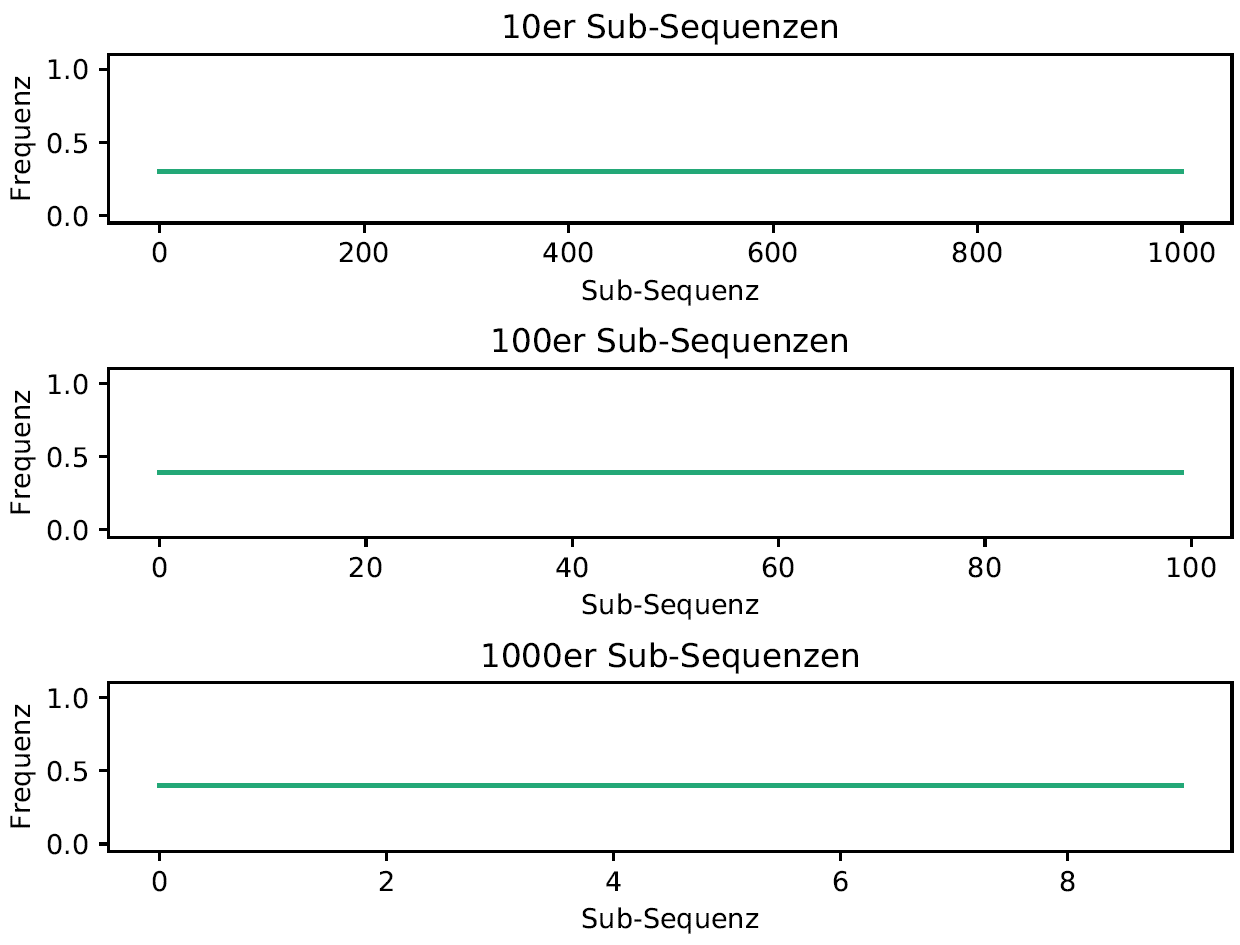
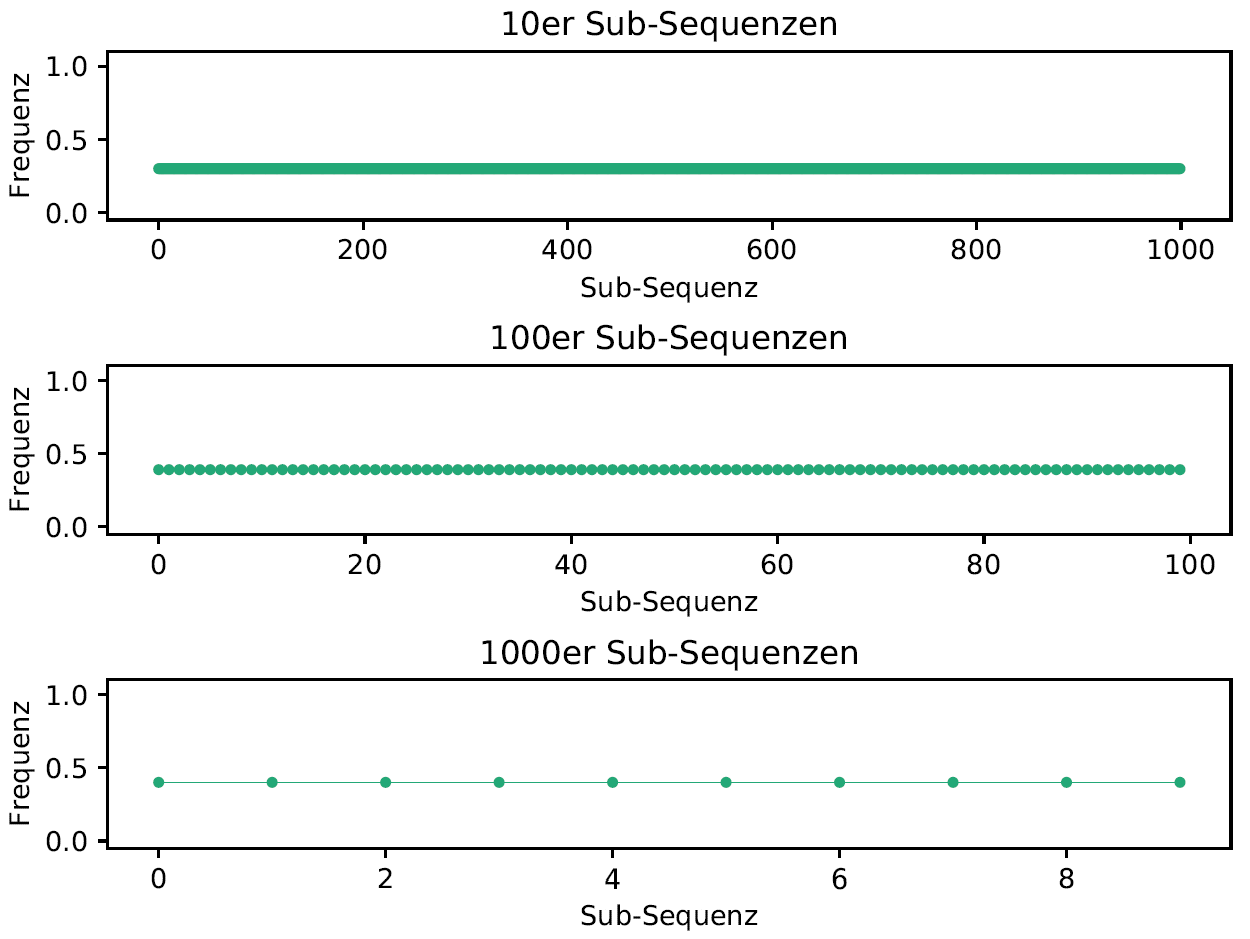
Adjusted pdf plotting for sub sequences and adjusted pictures in the documentation

diff --git a/Code/categorization/pdfGeneration.py b/Code/categorization/pdfGeneration.py
@@ -56,9 +56,10 @@ def generateSubSequenceBalanceInfoPdf(sequenceIndex,
         ax = figure.add_subplot(gs[currentRowIndex])
         currentRowIndex += 1
         ax.plot(values,
-                '.',
+                '.-',
                 color=BALANCE_PLOT_COLOR,
-                rasterized=RASTERIZE_PLOTS)
+                rasterized=RASTERIZE_PLOTS,
+                linewidth=0.25)
         ax.set_title(str(key) + "er Sub-Sequenzen")
         ax.set_xlabel('Sub-Sequenz')
         ax.set_ylabel('Balance')
@@ -88,9 +89,10 @@ def generateSubSequenceFrequencyInfoPdf(sequenceIndex,
         ax = figure.add_subplot(gs[currentRowIndex])
         currentRowIndex += 1
         ax.plot(values,
-                '.',
+                '.-',
                 color=FREQUENCY_PLOT_COLOR,
-                rasterized=RASTERIZE_PLOTS)
+                rasterized=RASTERIZE_PLOTS,
+                linewidth=0.25)
         ax.set_title(str(key) + "er Sub-Sequenzen")
         ax.set_xlabel('Sub-Sequenz')
         ax.set_ylabel('Frequenz')
